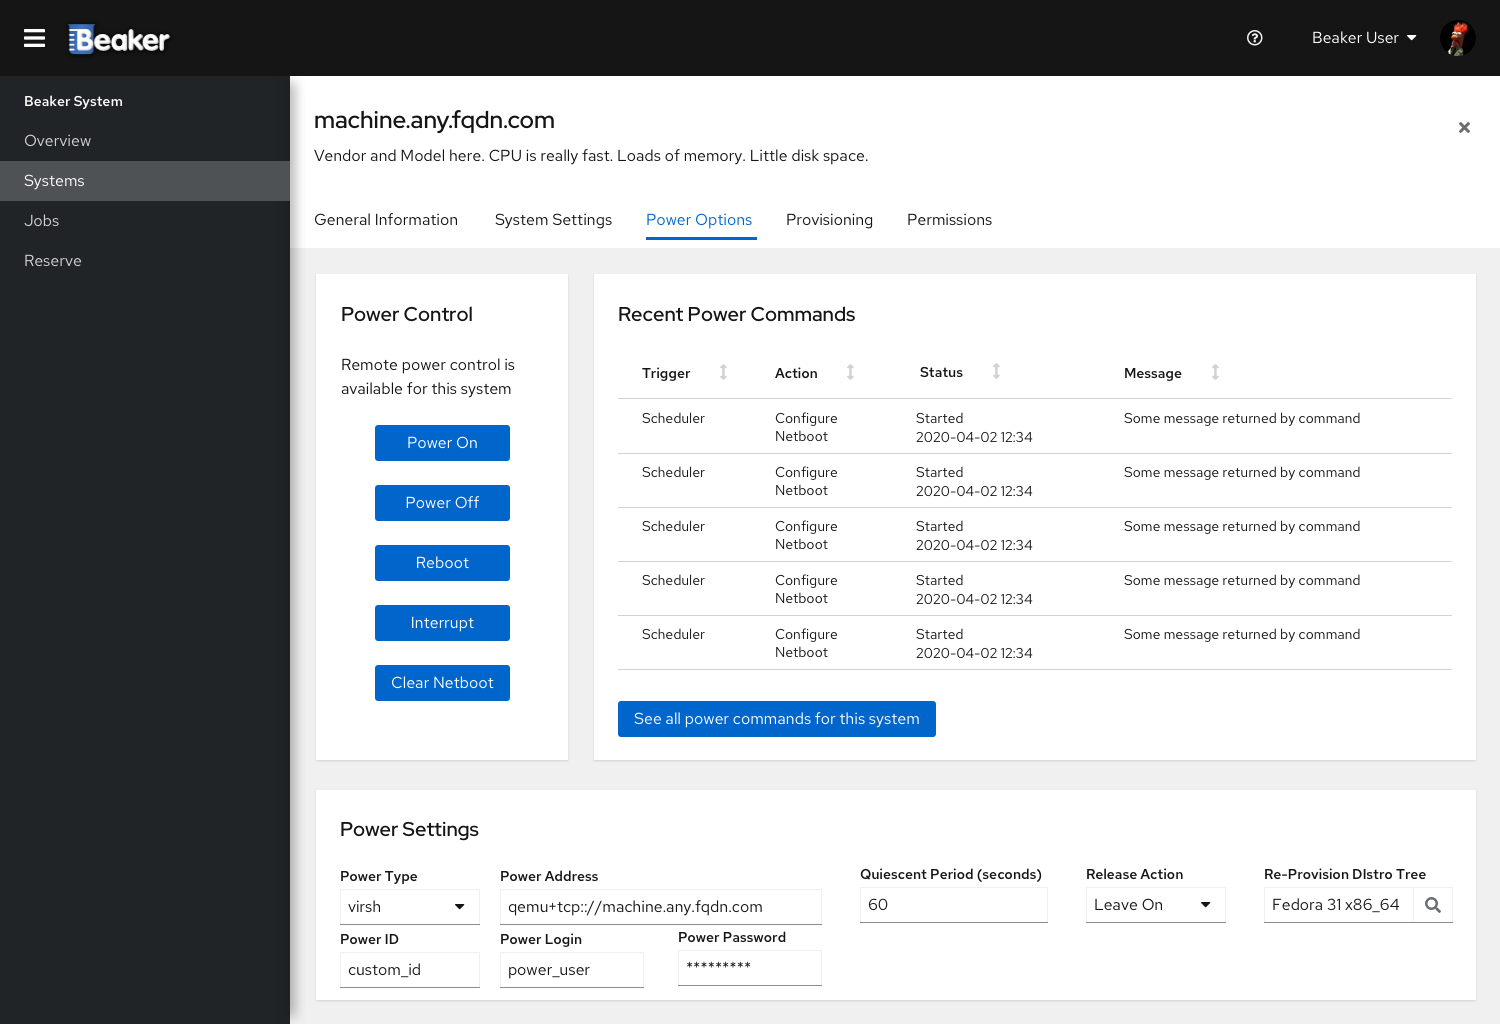
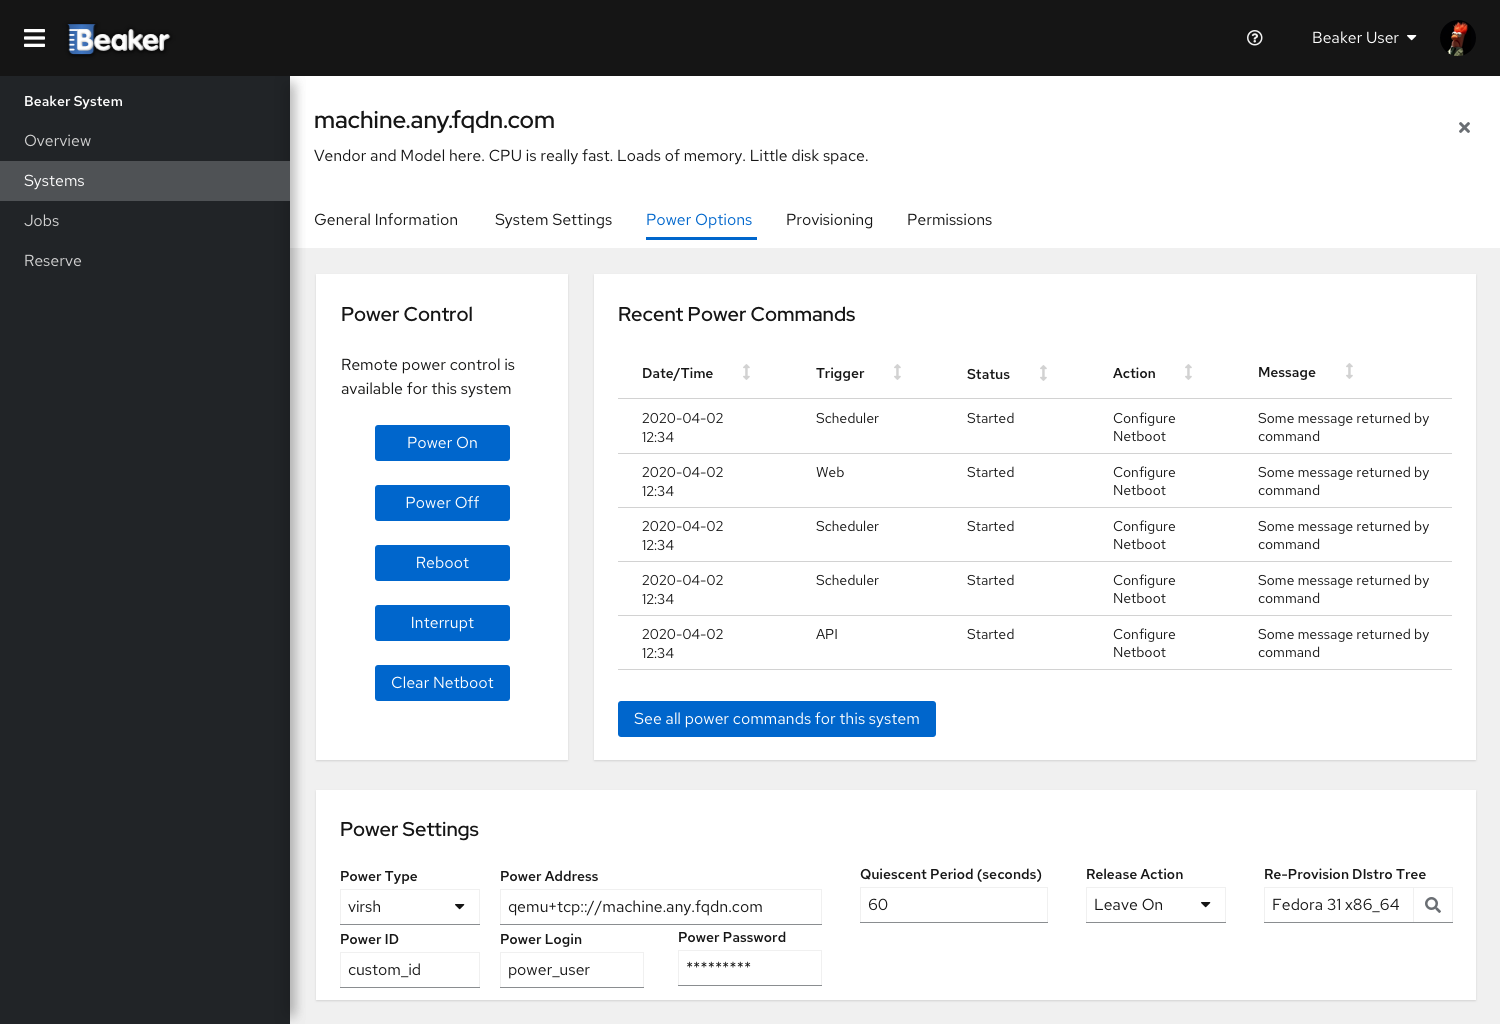
Tweaks and fixes to the systems screens

diff --git a/designs/systems/index.md b/designs/systems/index.md
@@ -15,7 +15,8 @@ The table contains 10 results per page. There are navigation commands which can 
 There is a filter bar which can be used to search for specific systems by name. Other filtering options will be available
 through "Advanced Search".
 
-The table contains 5 fields:
+The table contains 6 fields:
+- Status: current status for this system in the scheduler: (A)utomatic, (M)anual or (B)roken
 - Name: name of the system in Beaker, with the machine vendor and model
 - Architecture: architecture(s) supported in this system
 - Owner: user who owns the system in Beaker
@@ -42,9 +43,9 @@ for the system.
 which allows the user to see all the activity for the system.
 
 The recent activity table has 4 fields:
-- User: name of the user who triggered / executed the activity
-- Service: shows through which service (command line, web interface) the activity was created
 - Date / Time: timestamp for the activity
+- Service: shows through which service (command line, web interface) the activity was created
+- User: name of the user who triggered / executed the activity
 - Action: Description of the activity and its effects
 
 ![](img/system_details_general.png)
@@ -64,8 +65,9 @@ The Pools card has a list of pools this system belongs to, with a button to edit
 The Excluded Families card has only one button, leading to the Excluded Families configuration (if done the way it is
 today, doesnt fit in a card.)
 
-The main Beaker Settings can be defined in the appropriate card. Type and architecture of the system can be defined there,
-as well as the Kernel type if it is an ARM system. It also has the Lab Controller the system is attached to. 
+The main Beaker Settings can be defined in the appropriate card. Type and architectures supported by the system can be 
+defined there, as well as the Kernel type if it is an ARM system. It also has the Lab Controller the system is attached 
+to. 
 
 There is a Condition dropdown which defines the current status for this system (Automated, Manual or Broken). If the status
 for a system is changed, the user needs to write down why it is changing. The text and timestamp will be displayed as the
@@ -84,10 +86,11 @@ The "Power Control" card will tell if the system power can be controlled remotel
 system on and off, reboot it, interrupt and clear netboot.
 
 A table with the 5 most recent power commands is also shown. There is a button for the user to see all of the power
-history for the machine. The table has 4 fields:
+history for the machine. The table has 5 fields:
+- Date / Time: timestamp for the last status update for this power command
 - Trigger: identifies how the power command was issued
+- Status: Current status of the command
 - Action: the command itself
-- Status: Current status of the command with corresponding timestamp
 - Message (optional): message returned by the command call, if any
 
 The "Power Settings" card will let the user set the power configuration for the system, as address, protocol, ID, username,
